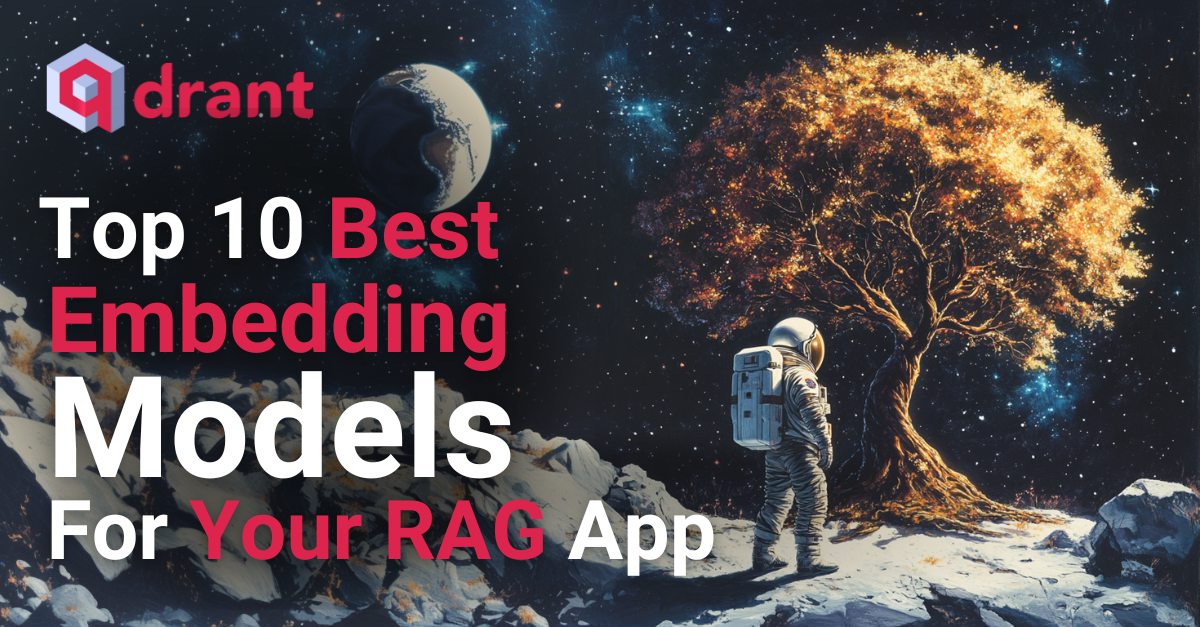
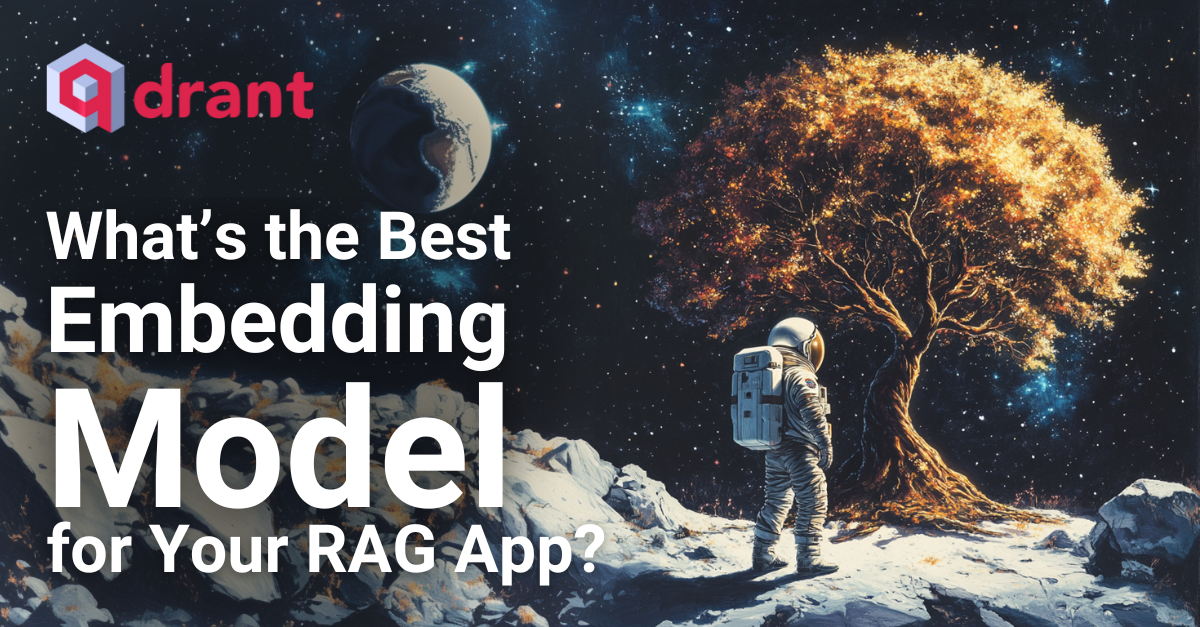
second pass

diff --git a/qdrant-landing/content/blog/embedding-model-questions.md b/qdrant-landing/content/blog/embedding-model-questions.md
@@ -1,8 +1,8 @@
 ---
-title: "Choosing the Right Embedding Model for Your RAG Application"
-short_description: "FastEmbed and Qdrant provide a fast and performant option for your AI Application"
-description: "Why aren't you using FastEmbed?"
-social_preview_image: /blog/embedding-model-questions/social_preview.png
+title: "What's the Best Embedding Model for Your RAG Application?"
+short_description: "FastEmbed and Qdrant provide a fast and performant option for your AI Application."
+description: "FastEmbed and Qdrant provide a fast and performant option for your AI Application."
+preview_image: /blog/embedding-model-questions/social_preview.png
 weight: -40
 author: Thierry Damiba
 author_link: https://x.com/thierrypdamiba 
@@ -17,56 +17,43 @@ keywords:
   - embedding models
 ---
 
-# Choosing the Right Embedding Model for Your RAG Application
+## Choosing the Right Model is a Long-Term Investment
 
-As a data scientist building Retrieval-Augmented Generation (RAG) applications, selecting the right embedding model is one of the most critical decisions that directly impacts performance. There are many models to choose from, each with its own strengths and ideal use cases. In this article, we will:
+This decision goes beyond immediate performance—it’s a long-term investment in the scalability and flexibility of your system. Embedding models turn unstructured data into vectors, powering efficient and accurate RAG processes.
 
-- Provide simple code examples to set up different embedding models with **FastEmbed**.
-- Offer real-world use cases for each model.
-- Demonstrate how you can play with different models.
-- Include visual elements such as tables and images for clarity.
-  
-By the end of this post, you'll know which embedding model suits your application best and how to implement it.
+With many models to choose from, each with different strengths, the decision comes down to factors like efficiency, accuracy, and specialization. 
 
----
+- **Efficiency**: Some models like ResNet-50 are lightweight and fast, ideal for mobile apps.
+- **Accuracy**: CLIP excels at understanding both text and images, offering versatile use cases.
+- **Specialization**: BM25 focuses on keyword relevance, ideal for traditional search systems.
 
-## Introduction to Vector Embeddings
+Each model has its unique strengths—some prioritize speed, others handle multimodal data or specialized search tasks. Understanding these differences will help you make an informed choice that sets your system up for long-term success.
 
-Before diving into models, let’s briefly discuss what vector embeddings are and why they are essential for RAG applications.
+In this article, we’ll walk you through setting up models with FastEmbed, share real-world examples, and show you how to experiment with different options. By the end, you’ll know which model is best for your application and how to implement it.
 
-### What is a Vector Embedding?
-
-A **vector embedding** is a mathematical representation of data in multi-dimensional space. Vectors that are closer together in this space are semantically related, making vector embeddings useful for applications like search, classification, and retrieval.
-
-For instance, imagine embedding a document into a vector space. When a user searches with a query, it is also embedded into the same vector space. The RAG system will retrieve documents whose vectors are closest to the query vector, making the search more relevant.
-
-**Key Components of Embedding Models:**
-- **Tokenization**: Breaking input data into tokens (e.g., words, byte pairs).
-- **Model Architecture**: Models like transformers use mechanisms like **self-attention** to capture the relationships between tokens, improving semantic understanding.
-  
----
-
-## Five Embedding Models with FastEmbed: Real-World Use Cases and Code Examples
+## Top Five Use Cases and Recommended Embedding Models 
 
 To streamline your workflow, we will focus on five embedding models from FastEmbed, covering both image and text embeddings. Each model comes with a simple use case, setup example, and demo link to experiment with.
 
-### 1. **ResNet-50 (Image Embedding)**
-#### Ideal Use Case: Lightweight Mobile App
-**Model Info**: ResNet-50 uses CNNs and residual learning. It’s compact (0.1 GB) and supports 2048-dimensional embeddings.
 
-**Example**: Organizing photos on a mobile device into categories like "Landscapes" or "Portraits."
+
+### 1. Text Embedding for Short Documents - BAAI/bge-small-en-v1.5 
+**Ideal Use Case:** Social Media Moderation
+Real-time content moderation on social media platforms.
+
+**Model Info**: Lightweight, fast model for short English text, supporting 384 dimensions and is 0.067 GB.
 
 ```python
-from fastembed import ResNet50Embed
-embedder = ResNet50Embed()
-image_vector = embedder.embed("your_image.jpg")
+from fastembed import BGEEmbed
+embedder = BGEEmbed(model="small-en-v1.5")
+text_vector = embedder.embed("short_text_here")
 ```
 
-**Demo**: [Play with ResNet-50 here](#)
+**Demo**: [Try BGE for text embeddings](#)
 
 ### 2. **CLIP ViT-B-32 (Image & Text Embedding)**
-#### Ideal Use Case: Text-to-Image Search
-**Model Info**: CLIP creates joint embeddings for text and images. It’s 0.34 GB and supports 512-dimensional embeddings.
+**Ideal Use Case:** Text-to-Image Search.
+CLIP creates joint embeddings for text and images. It’s 0.34 GB and supports 512-dimensional embeddings.
 
 **Example**: Search for images with natural language (e.g., "a dog playing in a park").
 
@@ -79,23 +66,9 @@ text_vector = embedder.embed_text("a dog playing in a park")
 
 **Demo**: [Test CLIP for text-image matching here](#)
 
-### 3. **BAAI/bge-small-en-v1.5 (Text Embedding for Short Documents)**
-#### Ideal Use Case: Social Media Moderation
-**Model Info**: Lightweight, fast model for short English text, supporting 384 dimensions and is 0.067 GB.
-
-**Example**: Real-time content moderation on social media platforms.
-
-```python
-from fastembed import BGEEmbed
-embedder = BGEEmbed(model="small-en-v1.5")
-text_vector = embedder.embed("short_text_here")
-```
-
-**Demo**: [Try BGE for text embeddings](#)
-
-### 4. **Qdrant/BM25 (Sparse Embedding for Keyword Search)**
-#### Ideal Use Case: Keyword-Based Document Search
-**Model Info**: BM25 computes sparse embeddings, great for traditional keyword searches. Ideal for enterprise document search engines.
+### 3. **Qdrant/BM25 (Sparse Embedding for Keyword Search)**
+**Ideal Use Case:** Keyword-Based Document Search
+BM25 computes sparse embeddings, great for traditional keyword searches. Ideal for enterprise document search engines.
 
 **Example**: Searching a repository for documents with specific keywords.
 
@@ -108,8 +81,8 @@ search_results = bm25.search("keyword query")
 **Demo**: [Explore BM25 for document search](#)
 
 ### 5. **prithvida/Splade_PP_en_v1 (Sparse + Dense Hybrid Embedding)**
-#### Ideal Use Case: E-commerce Product Search
-**Model Info**: Combines sparse lexical features and dense representations, suitable for hybrid search tasks.
+**Ideal Use Case:** E-commerce Product Search
+Combines sparse lexical features and dense representations, suitable for hybrid search tasks.
 
 **Example**: Searching an e-commerce platform with keywords and descriptive phrases.
 
@@ -121,7 +94,21 @@ results = embedder.search("red running shoes")
 
 **Demo**: [Play with SPLADE for hybrid search](#)
 
----
+### 5. **ResNet-50 (Image Embedding)**
+**Ideal Use Case:** Lightweight Mobile App
+Organizing photos on a mobile device into categories like "Landscapes" or "Portraits."
+
+**Model Info**: ResNet-50 uses CNNs and residual learning. It’s compact (0.1 GB) and supports 2048-dimensional embeddings.
+
+```python
+from fastembed import ResNet50Embed
+embedder = ResNet50Embed()
+image_vector = embedder.embed("your_image.jpg")
+```
+
+**Demo**: [Play with ResNet-50 here](#)
+
+
 
 ## Embedding Models Comparison Table
 
@@ -135,13 +122,6 @@ results = embedder.search("red running shoes")
 
 ---
 
-## Why Embedding Models Matter for RAG Applications
-
-Embedding models translate your unstructured data into a format that LLMs can work with. Choosing the right model is critical for:
-
-- **Efficiency**: Some models like ResNet-50 are lightweight and fast, ideal for mobile apps.
-- **Accuracy**: CLIP excels at understanding both text and images, offering versatile use cases.
-- **Specialization**: BM25 focuses on keyword relevance, ideal for traditional search systems.
 
 ### What’s Next?
 
